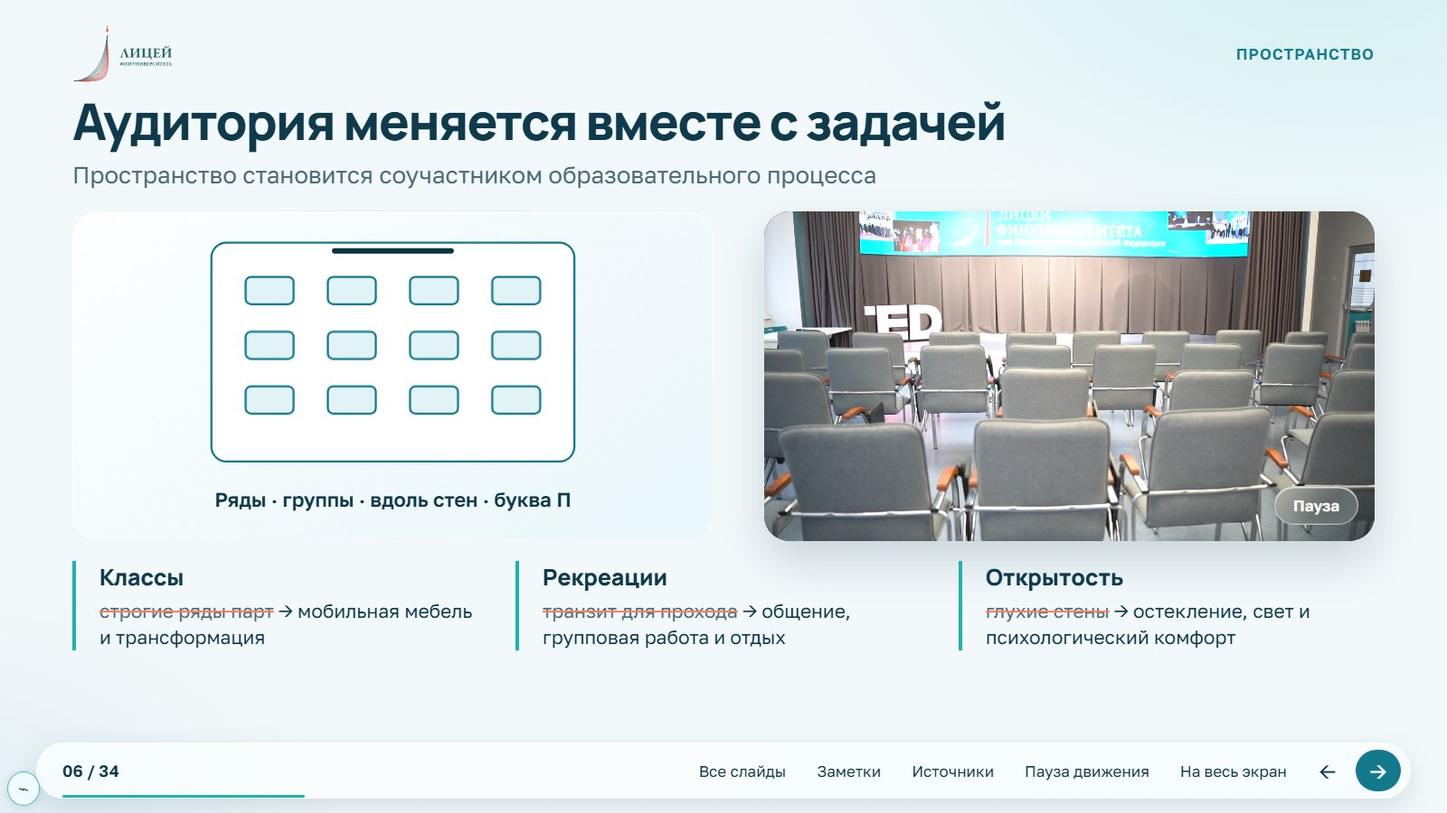
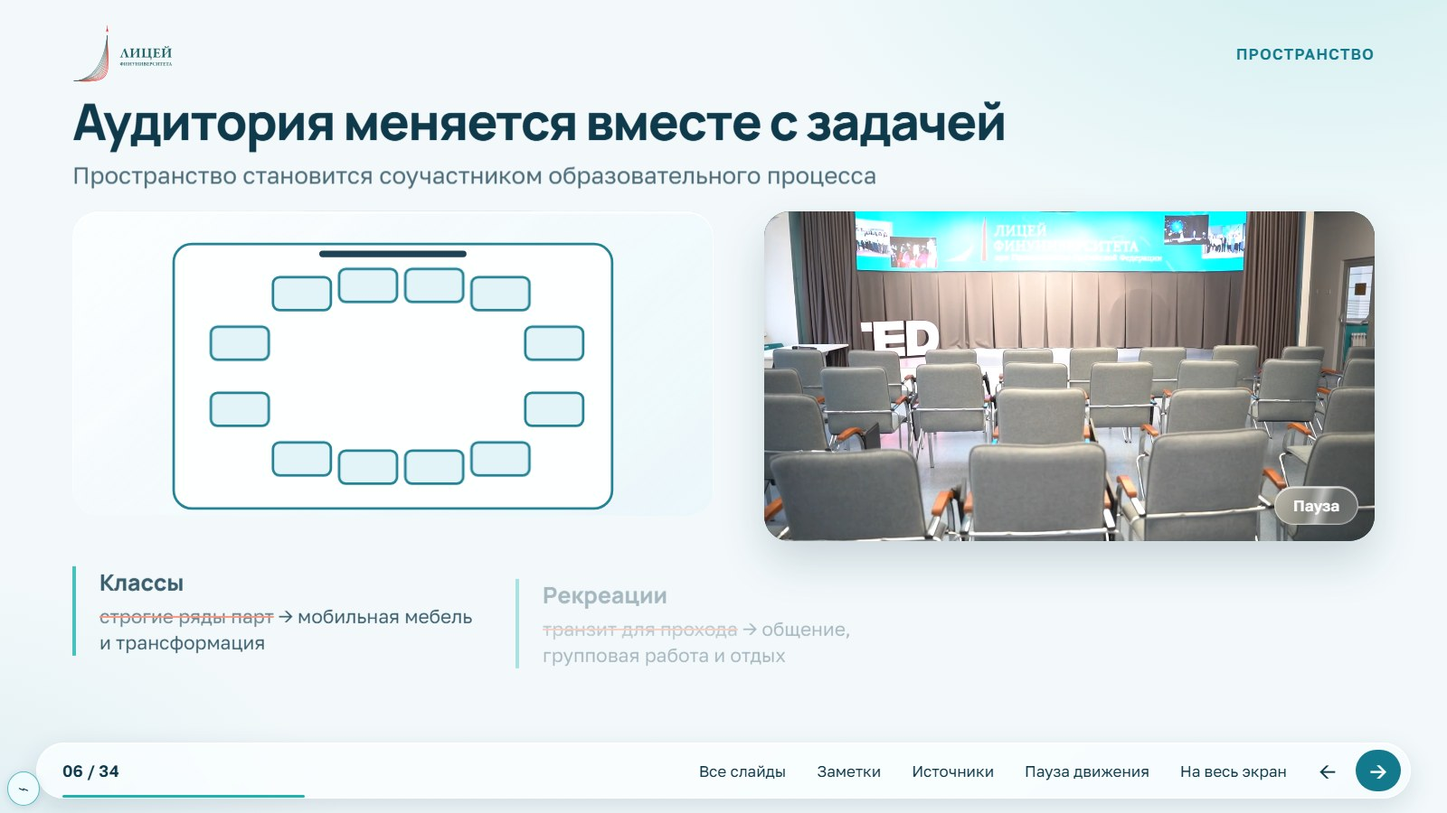
Add fifth classroom layout and remove animation captions

diff --git a/index.html b/index.html
@@ -479,7 +479,7 @@ body.iv-remote-connected .bottom{visibility:hidden;pointer-events:none}
 </style><style>
 /* Requested revisions, November 14 */
 #slide-6 .s6{height:365px;flex:none}#slide-6 .spaces-film{height:365px}#slide-6 .compare{display:grid;grid-template-columns:repeat(3,1fr);gap:30px}#slide-6 .compare dt{font-size:25px}#slide-6 .compare dd{font-size:21px}#slide-6{gap:22px}#slide-6 .room svg{height:290px}#slide-6 .mode{height:40px}#slide-6 .room-mode{position:static;opacity:1;font-size:22px}
-#slide-6.play .desk{animation:roomCycle 20s ease-in-out infinite}@keyframes roomCycle{0%,15%,100%{transform:translate(0,0)}25%,40%{transform:translate(var(--dx),var(--dy))}50%,65%{transform:translate(var(--wx),var(--wy))}75%,90%{transform:translate(var(--ux),var(--uy))}}
+#slide-6.play .desk{animation:roomCycle 25s ease-in-out infinite}@keyframes roomCycle{0%,12%,100%{transform:translate(0,0)}20%,32%{transform:translate(var(--dx),var(--dy))}40%,52%{transform:translate(var(--wx),var(--wy))}60%,72%{transform:translate(var(--ux),var(--uy))}80%,92%{transform:translate(var(--cx),var(--cy))}}
 #slide-7 .row-item{padding:12px 20px}#slide-7 .row-item b{font-size:28px}#slide-7 .row-item span{font-size:23px}
 .varwin-partner{display:flex;align-items:center;gap:28px;font-size:22px}.varwin-partner img{width:190px;height:65px;object-fit:contain}.varwin-partner p{margin-top:6px}#slide-16{gap:22px}#slide-16 .numbered{gap:22px}#slide-16 .varfin{min-height:205px}.varwin-partner b{font-size:24px}
 #slide-26.play .mon{animation:liftReturn 12s ease-in-out infinite}@keyframes liftReturn{0%,15%,100%{transform:translateY(0)}40%,65%{transform:translateY(-110px)}}#slide-26 .phases{font-size:22px;gap:10px}#slide-26 .up-arrow{animation-direction:alternate;animation-iteration-count:infinite}
@@ -521,7 +521,7 @@ body.iv-remote-connected .bottom{visibility:hidden;pointer-events:none}
 #slide-27 .admin-result p{font-size:20px;color:var(--muted);line-height:1.25}
 @media(max-width:899px){#slide-27 .ai-contours-v6{height:auto;grid-template-columns:1fr;font-size:18px}#slide-27 .contour-box{padding:18px 16px}#slide-27 .contour-title{display:flex;align-items:flex-start;flex-direction:column;gap:7px;font-size:22px}#slide-27 .contour-title>span{font-size:17px}#slide-27 .platform-row,#slide-27 .ai-processors{grid-template-columns:1fr}#slide-27 .platform-node b,#slide-27 .processor>b{font-size:22px}#slide-27 .processor+ .processor{border-left:0;padding-left:0;border-top:2px solid var(--line);padding-top:18px}#slide-27 .platform-node strong,#slide-27 .processor li,#slide-27 .admin-result p{font-size:18px}#slide-27 .ai-admin .contour-title br{display:none}}
 
-#noteText .speaker-point{margin:20px 0}#noteText h3{font-size:23px;color:var(--teal);margin:0 0 6px}#noteText p{font-size:22px;line-height:1.5}</style></head><body><main aria-label="Презентация Лицея Финансового университета" id="stage">
+#noteText .speaker-point{margin:20px 0}#noteText h3{font-size:23px;color:var(--teal);margin:0 0 6px}#noteText p{font-size:22px;line-height:1.5}</style><style>#slide-6 .room svg{height:340px}@media(max-width:899px){#slide-6 .room svg{height:auto;min-height:230px}}</style></head><body><main aria-label="Презентация Лицея Финансового университета" id="stage">
 <div class="brandbar"><img alt="Лицей Финансового университета" class="logo-light" src="assets/brand/v2/lyceum-color.svg"/><img alt="" class="logo-dark" src="assets/brand/v2/lyceum-white.svg"/><span class="chapter" id="chapter"></span></div>
 <section aria-label="Слайд 1: Новая архитектура профильного образования" class="slide dark hero" data-chapter="Лицей Финуниверситета" data-notes="Замысел
 Мы создаём среду, в которой школьник может проверить свои интересы на практике.
@@ -572,13 +572,13 @@ body.iv-remote-connected .bottom{visibility:hidden;pointer-events:none}
 Для общего объяснения, групповой работы и обсуждения нужна разная организация аудитории.
 
 Показать на схеме
-Парты переходят из рядов в группы, располагаются вдоль стен и буквой П.
+Парты переходят из рядов в группы, располагаются вдоль стен, буквой П и замкнутым кругом для общего обсуждения.
 
 За пределами класса
 Рекреации и открытые зоны дают место для общения, самостоятельной работы и отдыха." data-sources="1" id="slide-6"><header class="head"><h2 data-a="up" style="--d:0.00s">Аудитория меняется вместе с задачей</h2><p class="sub" data-a="up" style="--d:0.12s">Пространство становится соучастником образовательного процесса</p></header>
 <div class="split s6"><div class="room glass-light" data-a="reveal" style="--d:0.20s">
-<svg aria-label="Схема: ряды парт перестраиваются в группы" viewbox="0 0 570 340"><rect class="walls" height="320" rx="22" width="530" x="20" y="10"></rect><path class="board" d="M200 22H370"></path><rect class="desk" height="40" rx="8" style="--dx:-4px;--dy:11px;--d:1.20s;--wx:-25.0px;--wy:-10.0px;--ux:30.0px;--uy:-5.0px" width="70" x="70" y="60"></rect><rect class="desk" height="40" rx="8" style="--dx:-46px;--dy:11px;--d:1.24s;--wx:-145.0px;--wy:60.0px;--ux:10.0px;--uy:-5.0px" width="70" x="190" y="60"></rect><rect class="desk" height="40" rx="8" style="--dx:-244px;--dy:59px;--d:1.28s;--wx:-265.0px;--wy:130.0px;--ux:-10.0px;--uy:-5.0px" width="70" x="310" y="60"></rect><rect class="desk" height="40" rx="8" style="--dx:-286px;--dy:59px;--d:1.32s;--wx:-385.0px;--wy:200.0px;--ux:-30.0px;--uy:-5.0px" width="70" x="430" y="60"></rect><rect class="desk" height="40" rx="8" style="--dx:286px;--dy:-69px;--d:1.36s;--wx:385.0px;--wy:-90.0px;--ux:30.0px;--uy:-15.0px" width="70" x="70" y="140"></rect><rect class="desk" height="40" rx="8" style="--dx:244px;--dy:-69px;--d:1.40s;--wx:265.0px;--wy:-20.0px;--ux:-90.0px;--uy:55.0px" width="70" x="190" y="140"></rect><rect class="desk" height="40" rx="8" style="--dx:46px;--dy:-21px;--d:1.44s;--wx:145.0px;--wy:50.0px;--ux:-210.0px;--uy:125.0px" width="70" x="310" y="140"></rect><rect class="desk" height="40" rx="8" style="--dx:4px;--dy:-21px;--d:1.48s;--wx:25.0px;--wy:120.0px;--ux:-30.0px;--uy:-15.0px" width="70" x="430" y="140"></rect><rect class="desk" height="40" rx="8" style="--dx:141px;--dy:-14px;--d:1.52s;--wx:60px;--wy:50.0px;--ux:330.0px;--uy:-25.0px" width="70" x="70" y="220"></rect><rect class="desk" height="40" rx="8" style="--dx:99px;--dy:-14px;--d:1.56s;--wx:20px;--wy:50.0px;--ux:210.0px;--uy:45.0px" width="70" x="190" y="220"></rect><rect class="desk" height="40" rx="8" style="--dx:-99px;--dy:34px;--d:1.60s;--wx:-20px;--wy:50.0px;--ux:-110.0px;--uy:45.0px" width="70" x="310" y="220"></rect><rect class="desk" height="40" rx="8" style="--dx:-141px;--dy:34px;--d:1.64s;--wx:-60px;--wy:50.0px;--ux:-130.0px;--uy:45.0px" width="70" x="430" y="220"></rect></svg>
-<p class="mode"><span class="room-mode">Ряды · группы · вдоль стен · буква П</span></p></div>
+<svg aria-label="Анимация пяти расстановок парт: ряды, группы, вдоль стен, буква П и замкнутый круг для обсуждения" viewbox="0 0 570 340"><rect class="walls" height="320" rx="22" width="530" x="20" y="10"></rect><path class="board" d="M200 22H370"></path><rect class="desk" height="40" rx="8" style="--dx:-4px;--dy:11px;--d:1.20s;--wx:-25.0px;--wy:-10.0px;--ux:30.0px;--uy:-5.0px;--cx:70px;--cy:-10px" width="70" x="70" y="60"></rect><rect class="desk" height="40" rx="8" style="--dx:-46px;--dy:11px;--d:1.24s;--wx:-145.0px;--wy:60.0px;--ux:10.0px;--uy:-5.0px;--cx:30px;--cy:-20px" width="70" x="190" y="60"></rect><rect class="desk" height="40" rx="8" style="--dx:-244px;--dy:59px;--d:1.28s;--wx:-265.0px;--wy:130.0px;--ux:-10.0px;--uy:-5.0px;--cx:-10px;--cy:-20px" width="70" x="310" y="60"></rect><rect class="desk" height="40" rx="8" style="--dx:-286px;--dy:59px;--d:1.32s;--wx:-385.0px;--wy:200.0px;--ux:-30.0px;--uy:-5.0px;--cx:-50px;--cy:-10px" width="70" x="430" y="60"></rect><rect class="desk" height="40" rx="8" style="--dx:286px;--dy:-69px;--d:1.36s;--wx:385.0px;--wy:-90.0px;--ux:30.0px;--uy:-15.0px;--cx:375px;--cy:-30px" width="70" x="70" y="140"></rect><rect class="desk" height="40" rx="8" style="--dx:244px;--dy:-69px;--d:1.40s;--wx:265.0px;--wy:-20.0px;--ux:-90.0px;--uy:55.0px;--cx:255px;--cy:50px" width="70" x="190" y="140"></rect><rect class="desk" height="40" rx="8" style="--dx:46px;--dy:-21px;--d:1.44s;--wx:145.0px;--wy:50.0px;--ux:-210.0px;--uy:125.0px;--cx:70px;--cy:110px" width="70" x="310" y="140"></rect><rect class="desk" height="40" rx="8" style="--dx:4px;--dy:-21px;--d:1.48s;--wx:25.0px;--wy:120.0px;--ux:-30.0px;--uy:-15.0px;--cx:-130px;--cy:120px" width="70" x="430" y="140"></rect><rect class="desk" height="40" rx="8" style="--dx:141px;--dy:-14px;--d:1.52s;--wx:60px;--wy:50.0px;--ux:330.0px;--uy:-25.0px;--cx:150px;--cy:40px" width="70" x="70" y="220"></rect><rect class="desk" height="40" rx="8" style="--dx:99px;--dy:-14px;--d:1.56s;--wx:20px;--wy:50.0px;--ux:210.0px;--uy:45.0px;--cx:-50px;--cy:30px" width="70" x="190" y="220"></rect><rect class="desk" height="40" rx="8" style="--dx:-99px;--dy:34px;--d:1.60s;--wx:-20px;--wy:50.0px;--ux:-110.0px;--uy:45.0px;--cx:-245px;--cy:-30px" width="70" x="310" y="220"></rect><rect class="desk" height="40" rx="8" style="--dx:-141px;--dy:34px;--d:1.64s;--wx:-60px;--wy:50.0px;--ux:-130.0px;--uy:45.0px;--cx:-365px;--cy:-110px" width="70" x="430" y="220"></rect></svg>
+</div>
 <div class="spaces-side"><figure class="media spaces-film"><video aria-label="slide06-learning-spaces" data-src="assets/video/v6/slide06.mp4" loop="" muted="" playsinline="" poster="assets/photos/v6/slide06-poster.webp" preload="none"></video><button class="video-toggle glass" type="button">Пауза</button></figure></div></div><dl class="compare">
 <div data-a="up" style="--d:0.50s"><dt>Классы</dt><dd><s>строгие ряды парт</s> → мобильная мебель и трансформация</dd></div>
 <div data-a="up" style="--d:0.70s"><dt>Рекреации</dt><dd><s>транзит для прохода</s> → общение, групповая работа и отдых</dd></div>

diff --git a/standalone.html b/standalone.html
@@ -479,7 +479,7 @@ body.iv-remote-connected .bottom{visibility:hidden;pointer-events:none}
 </style><style>
 /* Requested revisions, November 14 */
 #slide-6 .s6{height:365px;flex:none}#slide-6 .spaces-film{height:365px}#slide-6 .compare{display:grid;grid-template-columns:repeat(3,1fr);gap:30px}#slide-6 .compare dt{font-size:25px}#slide-6 .compare dd{font-size:21px}#slide-6{gap:22px}#slide-6 .room svg{height:290px}#slide-6 .mode{height:40px}#slide-6 .room-mode{position:static;opacity:1;font-size:22px}
-#slide-6.play .desk{animation:roomCycle 20s ease-in-out infinite}@keyframes roomCycle{0%,15%,100%{transform:translate(0,0)}25%,40%{transform:translate(var(--dx),var(--dy))}50%,65%{transform:translate(var(--wx),var(--wy))}75%,90%{transform:translate(var(--ux),var(--uy))}}
+#slide-6.play .desk{animation:roomCycle 25s ease-in-out infinite}@keyframes roomCycle{0%,12%,100%{transform:translate(0,0)}20%,32%{transform:translate(var(--dx),var(--dy))}40%,52%{transform:translate(var(--wx),var(--wy))}60%,72%{transform:translate(var(--ux),var(--uy))}80%,92%{transform:translate(var(--cx),var(--cy))}}
 #slide-7 .row-item{padding:12px 20px}#slide-7 .row-item b{font-size:28px}#slide-7 .row-item span{font-size:23px}
 .varwin-partner{display:flex;align-items:center;gap:28px;font-size:22px}.varwin-partner img{width:190px;height:65px;object-fit:contain}.varwin-partner p{margin-top:6px}#slide-16{gap:22px}#slide-16 .numbered{gap:22px}#slide-16 .varfin{min-height:205px}.varwin-partner b{font-size:24px}
 #slide-26.play .mon{animation:liftReturn 12s ease-in-out infinite}@keyframes liftReturn{0%,15%,100%{transform:translateY(0)}40%,65%{transform:translateY(-110px)}}#slide-26 .phases{font-size:22px;gap:10px}#slide-26 .up-arrow{animation-direction:alternate;animation-iteration-count:infinite}
@@ -521,7 +521,7 @@ body.iv-remote-connected .bottom{visibility:hidden;pointer-events:none}
 #slide-27 .admin-result p{font-size:20px;color:var(--muted);line-height:1.25}
 @media(max-width:899px){#slide-27 .ai-contours-v6{height:auto;grid-template-columns:1fr;font-size:18px}#slide-27 .contour-box{padding:18px 16px}#slide-27 .contour-title{display:flex;align-items:flex-start;flex-direction:column;gap:7px;font-size:22px}#slide-27 .contour-title>span{font-size:17px}#slide-27 .platform-row,#slide-27 .ai-processors{grid-template-columns:1fr}#slide-27 .platform-node b,#slide-27 .processor>b{font-size:22px}#slide-27 .processor+ .processor{border-left:0;padding-left:0;border-top:2px solid var(--line);padding-top:18px}#slide-27 .platform-node strong,#slide-27 .processor li,#slide-27 .admin-result p{font-size:18px}#slide-27 .ai-admin .contour-title br{display:none}}
 
-#noteText .speaker-point{margin:20px 0}#noteText h3{font-size:23px;color:var(--teal);margin:0 0 6px}#noteText p{font-size:22px;line-height:1.5}</style></head><body><main aria-label="Презентация Лицея Финансового университета" id="stage">
+#noteText .speaker-point{margin:20px 0}#noteText h3{font-size:23px;color:var(--teal);margin:0 0 6px}#noteText p{font-size:22px;line-height:1.5}</style><style>#slide-6 .room svg{height:340px}@media(max-width:899px){#slide-6 .room svg{height:auto;min-height:230px}}</style></head><body><main aria-label="Презентация Лицея Финансового университета" id="stage">
 <div class="brandbar"><img alt="Лицей Финансового университета" class="logo-light" src="assets/brand/v2/lyceum-color.svg"/><img alt="" class="logo-dark" src="assets/brand/v2/lyceum-white.svg"/><span class="chapter" id="chapter"></span></div>
 <section aria-label="Слайд 1: Новая архитектура профильного образования" class="slide dark hero" data-chapter="Лицей Финуниверситета" data-notes="Замысел
 Мы создаём среду, в которой школьник может проверить свои интересы на практике.
@@ -572,13 +572,13 @@ body.iv-remote-connected .bottom{visibility:hidden;pointer-events:none}
 Для общего объяснения, групповой работы и обсуждения нужна разная организация аудитории.
 
 Показать на схеме
-Парты переходят из рядов в группы, располагаются вдоль стен и буквой П.
+Парты переходят из рядов в группы, располагаются вдоль стен, буквой П и замкнутым кругом для общего обсуждения.
 
 За пределами класса
 Рекреации и открытые зоны дают место для общения, самостоятельной работы и отдыха." data-sources="1" id="slide-6"><header class="head"><h2 data-a="up" style="--d:0.00s">Аудитория меняется вместе с задачей</h2><p class="sub" data-a="up" style="--d:0.12s">Пространство становится соучастником образовательного процесса</p></header>
 <div class="split s6"><div class="room glass-light" data-a="reveal" style="--d:0.20s">
-<svg aria-label="Схема: ряды парт перестраиваются в группы" viewbox="0 0 570 340"><rect class="walls" height="320" rx="22" width="530" x="20" y="10"></rect><path class="board" d="M200 22H370"></path><rect class="desk" height="40" rx="8" style="--dx:-4px;--dy:11px;--d:1.20s;--wx:-25.0px;--wy:-10.0px;--ux:30.0px;--uy:-5.0px" width="70" x="70" y="60"></rect><rect class="desk" height="40" rx="8" style="--dx:-46px;--dy:11px;--d:1.24s;--wx:-145.0px;--wy:60.0px;--ux:10.0px;--uy:-5.0px" width="70" x="190" y="60"></rect><rect class="desk" height="40" rx="8" style="--dx:-244px;--dy:59px;--d:1.28s;--wx:-265.0px;--wy:130.0px;--ux:-10.0px;--uy:-5.0px" width="70" x="310" y="60"></rect><rect class="desk" height="40" rx="8" style="--dx:-286px;--dy:59px;--d:1.32s;--wx:-385.0px;--wy:200.0px;--ux:-30.0px;--uy:-5.0px" width="70" x="430" y="60"></rect><rect class="desk" height="40" rx="8" style="--dx:286px;--dy:-69px;--d:1.36s;--wx:385.0px;--wy:-90.0px;--ux:30.0px;--uy:-15.0px" width="70" x="70" y="140"></rect><rect class="desk" height="40" rx="8" style="--dx:244px;--dy:-69px;--d:1.40s;--wx:265.0px;--wy:-20.0px;--ux:-90.0px;--uy:55.0px" width="70" x="190" y="140"></rect><rect class="desk" height="40" rx="8" style="--dx:46px;--dy:-21px;--d:1.44s;--wx:145.0px;--wy:50.0px;--ux:-210.0px;--uy:125.0px" width="70" x="310" y="140"></rect><rect class="desk" height="40" rx="8" style="--dx:4px;--dy:-21px;--d:1.48s;--wx:25.0px;--wy:120.0px;--ux:-30.0px;--uy:-15.0px" width="70" x="430" y="140"></rect><rect class="desk" height="40" rx="8" style="--dx:141px;--dy:-14px;--d:1.52s;--wx:60px;--wy:50.0px;--ux:330.0px;--uy:-25.0px" width="70" x="70" y="220"></rect><rect class="desk" height="40" rx="8" style="--dx:99px;--dy:-14px;--d:1.56s;--wx:20px;--wy:50.0px;--ux:210.0px;--uy:45.0px" width="70" x="190" y="220"></rect><rect class="desk" height="40" rx="8" style="--dx:-99px;--dy:34px;--d:1.60s;--wx:-20px;--wy:50.0px;--ux:-110.0px;--uy:45.0px" width="70" x="310" y="220"></rect><rect class="desk" height="40" rx="8" style="--dx:-141px;--dy:34px;--d:1.64s;--wx:-60px;--wy:50.0px;--ux:-130.0px;--uy:45.0px" width="70" x="430" y="220"></rect></svg>
-<p class="mode"><span class="room-mode">Ряды · группы · вдоль стен · буква П</span></p></div>
+<svg aria-label="Анимация пяти расстановок парт: ряды, группы, вдоль стен, буква П и замкнутый круг для обсуждения" viewbox="0 0 570 340"><rect class="walls" height="320" rx="22" width="530" x="20" y="10"></rect><path class="board" d="M200 22H370"></path><rect class="desk" height="40" rx="8" style="--dx:-4px;--dy:11px;--d:1.20s;--wx:-25.0px;--wy:-10.0px;--ux:30.0px;--uy:-5.0px;--cx:70px;--cy:-10px" width="70" x="70" y="60"></rect><rect class="desk" height="40" rx="8" style="--dx:-46px;--dy:11px;--d:1.24s;--wx:-145.0px;--wy:60.0px;--ux:10.0px;--uy:-5.0px;--cx:30px;--cy:-20px" width="70" x="190" y="60"></rect><rect class="desk" height="40" rx="8" style="--dx:-244px;--dy:59px;--d:1.28s;--wx:-265.0px;--wy:130.0px;--ux:-10.0px;--uy:-5.0px;--cx:-10px;--cy:-20px" width="70" x="310" y="60"></rect><rect class="desk" height="40" rx="8" style="--dx:-286px;--dy:59px;--d:1.32s;--wx:-385.0px;--wy:200.0px;--ux:-30.0px;--uy:-5.0px;--cx:-50px;--cy:-10px" width="70" x="430" y="60"></rect><rect class="desk" height="40" rx="8" style="--dx:286px;--dy:-69px;--d:1.36s;--wx:385.0px;--wy:-90.0px;--ux:30.0px;--uy:-15.0px;--cx:375px;--cy:-30px" width="70" x="70" y="140"></rect><rect class="desk" height="40" rx="8" style="--dx:244px;--dy:-69px;--d:1.40s;--wx:265.0px;--wy:-20.0px;--ux:-90.0px;--uy:55.0px;--cx:255px;--cy:50px" width="70" x="190" y="140"></rect><rect class="desk" height="40" rx="8" style="--dx:46px;--dy:-21px;--d:1.44s;--wx:145.0px;--wy:50.0px;--ux:-210.0px;--uy:125.0px;--cx:70px;--cy:110px" width="70" x="310" y="140"></rect><rect class="desk" height="40" rx="8" style="--dx:4px;--dy:-21px;--d:1.48s;--wx:25.0px;--wy:120.0px;--ux:-30.0px;--uy:-15.0px;--cx:-130px;--cy:120px" width="70" x="430" y="140"></rect><rect class="desk" height="40" rx="8" style="--dx:141px;--dy:-14px;--d:1.52s;--wx:60px;--wy:50.0px;--ux:330.0px;--uy:-25.0px;--cx:150px;--cy:40px" width="70" x="70" y="220"></rect><rect class="desk" height="40" rx="8" style="--dx:99px;--dy:-14px;--d:1.56s;--wx:20px;--wy:50.0px;--ux:210.0px;--uy:45.0px;--cx:-50px;--cy:30px" width="70" x="190" y="220"></rect><rect class="desk" height="40" rx="8" style="--dx:-99px;--dy:34px;--d:1.60s;--wx:-20px;--wy:50.0px;--ux:-110.0px;--uy:45.0px;--cx:-245px;--cy:-30px" width="70" x="310" y="220"></rect><rect class="desk" height="40" rx="8" style="--dx:-141px;--dy:34px;--d:1.64s;--wx:-60px;--wy:50.0px;--ux:-130.0px;--uy:45.0px;--cx:-365px;--cy:-110px" width="70" x="430" y="220"></rect></svg>
+</div>
 <div class="spaces-side"><figure class="media spaces-film"><video aria-label="slide06-learning-spaces" data-src="assets/video/v6/slide06.mp4" loop="" muted="" playsinline="" poster="assets/photos/v6/slide06-poster.webp" preload="none"></video><button class="video-toggle glass" type="button">Пауза</button></figure></div></div><dl class="compare">
 <div data-a="up" style="--d:0.50s"><dt>Классы</dt><dd><s>строгие ряды парт</s> → мобильная мебель и трансформация</dd></div>
 <div data-a="up" style="--d:0.70s"><dt>Рекреации</dt><dd><s>транзит для прохода</s> → общение, групповая работа и отдых</dd></div>

diff --git a/Новая_архитектура_профильного_образования.html b/Новая_архитектура_профильного_образования.html
@@ -479,7 +479,7 @@ body.iv-remote-connected .bottom{visibility:hidden;pointer-events:none}
 </style><style>
 /* Requested revisions, November 14 */
 #slide-6 .s6{height:365px;flex:none}#slide-6 .spaces-film{height:365px}#slide-6 .compare{display:grid;grid-template-columns:repeat(3,1fr);gap:30px}#slide-6 .compare dt{font-size:25px}#slide-6 .compare dd{font-size:21px}#slide-6{gap:22px}#slide-6 .room svg{height:290px}#slide-6 .mode{height:40px}#slide-6 .room-mode{position:static;opacity:1;font-size:22px}
-#slide-6.play .desk{animation:roomCycle 20s ease-in-out infinite}@keyframes roomCycle{0%,15%,100%{transform:translate(0,0)}25%,40%{transform:translate(var(--dx),var(--dy))}50%,65%{transform:translate(var(--wx),var(--wy))}75%,90%{transform:translate(var(--ux),var(--uy))}}
+#slide-6.play .desk{animation:roomCycle 25s ease-in-out infinite}@keyframes roomCycle{0%,12%,100%{transform:translate(0,0)}20%,32%{transform:translate(var(--dx),var(--dy))}40%,52%{transform:translate(var(--wx),var(--wy))}60%,72%{transform:translate(var(--ux),var(--uy))}80%,92%{transform:translate(var(--cx),var(--cy))}}
 #slide-7 .row-item{padding:12px 20px}#slide-7 .row-item b{font-size:28px}#slide-7 .row-item span{font-size:23px}
 .varwin-partner{display:flex;align-items:center;gap:28px;font-size:22px}.varwin-partner img{width:190px;height:65px;object-fit:contain}.varwin-partner p{margin-top:6px}#slide-16{gap:22px}#slide-16 .numbered{gap:22px}#slide-16 .varfin{min-height:205px}.varwin-partner b{font-size:24px}
 #slide-26.play .mon{animation:liftReturn 12s ease-in-out infinite}@keyframes liftReturn{0%,15%,100%{transform:translateY(0)}40%,65%{transform:translateY(-110px)}}#slide-26 .phases{font-size:22px;gap:10px}#slide-26 .up-arrow{animation-direction:alternate;animation-iteration-count:infinite}
@@ -521,7 +521,7 @@ body.iv-remote-connected .bottom{visibility:hidden;pointer-events:none}
 #slide-27 .admin-result p{font-size:20px;color:var(--muted);line-height:1.25}
 @media(max-width:899px){#slide-27 .ai-contours-v6{height:auto;grid-template-columns:1fr;font-size:18px}#slide-27 .contour-box{padding:18px 16px}#slide-27 .contour-title{display:flex;align-items:flex-start;flex-direction:column;gap:7px;font-size:22px}#slide-27 .contour-title>span{font-size:17px}#slide-27 .platform-row,#slide-27 .ai-processors{grid-template-columns:1fr}#slide-27 .platform-node b,#slide-27 .processor>b{font-size:22px}#slide-27 .processor+ .processor{border-left:0;padding-left:0;border-top:2px solid var(--line);padding-top:18px}#slide-27 .platform-node strong,#slide-27 .processor li,#slide-27 .admin-result p{font-size:18px}#slide-27 .ai-admin .contour-title br{display:none}}
 
-#noteText .speaker-point{margin:20px 0}#noteText h3{font-size:23px;color:var(--teal);margin:0 0 6px}#noteText p{font-size:22px;line-height:1.5}</style></head><body><main aria-label="Презентация Лицея Финансового университета" id="stage">
+#noteText .speaker-point{margin:20px 0}#noteText h3{font-size:23px;color:var(--teal);margin:0 0 6px}#noteText p{font-size:22px;line-height:1.5}</style><style>#slide-6 .room svg{height:340px}@media(max-width:899px){#slide-6 .room svg{height:auto;min-height:230px}}</style></head><body><main aria-label="Презентация Лицея Финансового университета" id="stage">
 <div class="brandbar"><img alt="Лицей Финансового университета" class="logo-light" src="assets/brand/v2/lyceum-color.svg"/><img alt="" class="logo-dark" src="assets/brand/v2/lyceum-white.svg"/><span class="chapter" id="chapter"></span></div>
 <section aria-label="Слайд 1: Новая архитектура профильного образования" class="slide dark hero" data-chapter="Лицей Финуниверситета" data-notes="Замысел
 Мы создаём среду, в которой школьник может проверить свои интересы на практике.
@@ -572,13 +572,13 @@ body.iv-remote-connected .bottom{visibility:hidden;pointer-events:none}
 Для общего объяснения, групповой работы и обсуждения нужна разная организация аудитории.
 
 Показать на схеме
-Парты переходят из рядов в группы, располагаются вдоль стен и буквой П.
+Парты переходят из рядов в группы, располагаются вдоль стен, буквой П и замкнутым кругом для общего обсуждения.
 
 За пределами класса
 Рекреации и открытые зоны дают место для общения, самостоятельной работы и отдыха." data-sources="1" id="slide-6"><header class="head"><h2 data-a="up" style="--d:0.00s">Аудитория меняется вместе с задачей</h2><p class="sub" data-a="up" style="--d:0.12s">Пространство становится соучастником образовательного процесса</p></header>
 <div class="split s6"><div class="room glass-light" data-a="reveal" style="--d:0.20s">
-<svg aria-label="Схема: ряды парт перестраиваются в группы" viewbox="0 0 570 340"><rect class="walls" height="320" rx="22" width="530" x="20" y="10"></rect><path class="board" d="M200 22H370"></path><rect class="desk" height="40" rx="8" style="--dx:-4px;--dy:11px;--d:1.20s;--wx:-25.0px;--wy:-10.0px;--ux:30.0px;--uy:-5.0px" width="70" x="70" y="60"></rect><rect class="desk" height="40" rx="8" style="--dx:-46px;--dy:11px;--d:1.24s;--wx:-145.0px;--wy:60.0px;--ux:10.0px;--uy:-5.0px" width="70" x="190" y="60"></rect><rect class="desk" height="40" rx="8" style="--dx:-244px;--dy:59px;--d:1.28s;--wx:-265.0px;--wy:130.0px;--ux:-10.0px;--uy:-5.0px" width="70" x="310" y="60"></rect><rect class="desk" height="40" rx="8" style="--dx:-286px;--dy:59px;--d:1.32s;--wx:-385.0px;--wy:200.0px;--ux:-30.0px;--uy:-5.0px" width="70" x="430" y="60"></rect><rect class="desk" height="40" rx="8" style="--dx:286px;--dy:-69px;--d:1.36s;--wx:385.0px;--wy:-90.0px;--ux:30.0px;--uy:-15.0px" width="70" x="70" y="140"></rect><rect class="desk" height="40" rx="8" style="--dx:244px;--dy:-69px;--d:1.40s;--wx:265.0px;--wy:-20.0px;--ux:-90.0px;--uy:55.0px" width="70" x="190" y="140"></rect><rect class="desk" height="40" rx="8" style="--dx:46px;--dy:-21px;--d:1.44s;--wx:145.0px;--wy:50.0px;--ux:-210.0px;--uy:125.0px" width="70" x="310" y="140"></rect><rect class="desk" height="40" rx="8" style="--dx:4px;--dy:-21px;--d:1.48s;--wx:25.0px;--wy:120.0px;--ux:-30.0px;--uy:-15.0px" width="70" x="430" y="140"></rect><rect class="desk" height="40" rx="8" style="--dx:141px;--dy:-14px;--d:1.52s;--wx:60px;--wy:50.0px;--ux:330.0px;--uy:-25.0px" width="70" x="70" y="220"></rect><rect class="desk" height="40" rx="8" style="--dx:99px;--dy:-14px;--d:1.56s;--wx:20px;--wy:50.0px;--ux:210.0px;--uy:45.0px" width="70" x="190" y="220"></rect><rect class="desk" height="40" rx="8" style="--dx:-99px;--dy:34px;--d:1.60s;--wx:-20px;--wy:50.0px;--ux:-110.0px;--uy:45.0px" width="70" x="310" y="220"></rect><rect class="desk" height="40" rx="8" style="--dx:-141px;--dy:34px;--d:1.64s;--wx:-60px;--wy:50.0px;--ux:-130.0px;--uy:45.0px" width="70" x="430" y="220"></rect></svg>
-<p class="mode"><span class="room-mode">Ряды · группы · вдоль стен · буква П</span></p></div>
+<svg aria-label="Анимация пяти расстановок парт: ряды, группы, вдоль стен, буква П и замкнутый круг для обсуждения" viewbox="0 0 570 340"><rect class="walls" height="320" rx="22" width="530" x="20" y="10"></rect><path class="board" d="M200 22H370"></path><rect class="desk" height="40" rx="8" style="--dx:-4px;--dy:11px;--d:1.20s;--wx:-25.0px;--wy:-10.0px;--ux:30.0px;--uy:-5.0px;--cx:70px;--cy:-10px" width="70" x="70" y="60"></rect><rect class="desk" height="40" rx="8" style="--dx:-46px;--dy:11px;--d:1.24s;--wx:-145.0px;--wy:60.0px;--ux:10.0px;--uy:-5.0px;--cx:30px;--cy:-20px" width="70" x="190" y="60"></rect><rect class="desk" height="40" rx="8" style="--dx:-244px;--dy:59px;--d:1.28s;--wx:-265.0px;--wy:130.0px;--ux:-10.0px;--uy:-5.0px;--cx:-10px;--cy:-20px" width="70" x="310" y="60"></rect><rect class="desk" height="40" rx="8" style="--dx:-286px;--dy:59px;--d:1.32s;--wx:-385.0px;--wy:200.0px;--ux:-30.0px;--uy:-5.0px;--cx:-50px;--cy:-10px" width="70" x="430" y="60"></rect><rect class="desk" height="40" rx="8" style="--dx:286px;--dy:-69px;--d:1.36s;--wx:385.0px;--wy:-90.0px;--ux:30.0px;--uy:-15.0px;--cx:375px;--cy:-30px" width="70" x="70" y="140"></rect><rect class="desk" height="40" rx="8" style="--dx:244px;--dy:-69px;--d:1.40s;--wx:265.0px;--wy:-20.0px;--ux:-90.0px;--uy:55.0px;--cx:255px;--cy:50px" width="70" x="190" y="140"></rect><rect class="desk" height="40" rx="8" style="--dx:46px;--dy:-21px;--d:1.44s;--wx:145.0px;--wy:50.0px;--ux:-210.0px;--uy:125.0px;--cx:70px;--cy:110px" width="70" x="310" y="140"></rect><rect class="desk" height="40" rx="8" style="--dx:4px;--dy:-21px;--d:1.48s;--wx:25.0px;--wy:120.0px;--ux:-30.0px;--uy:-15.0px;--cx:-130px;--cy:120px" width="70" x="430" y="140"></rect><rect class="desk" height="40" rx="8" style="--dx:141px;--dy:-14px;--d:1.52s;--wx:60px;--wy:50.0px;--ux:330.0px;--uy:-25.0px;--cx:150px;--cy:40px" width="70" x="70" y="220"></rect><rect class="desk" height="40" rx="8" style="--dx:99px;--dy:-14px;--d:1.56s;--wx:20px;--wy:50.0px;--ux:210.0px;--uy:45.0px;--cx:-50px;--cy:30px" width="70" x="190" y="220"></rect><rect class="desk" height="40" rx="8" style="--dx:-99px;--dy:34px;--d:1.60s;--wx:-20px;--wy:50.0px;--ux:-110.0px;--uy:45.0px;--cx:-245px;--cy:-30px" width="70" x="310" y="220"></rect><rect class="desk" height="40" rx="8" style="--dx:-141px;--dy:34px;--d:1.64s;--wx:-60px;--wy:50.0px;--ux:-130.0px;--uy:45.0px;--cx:-365px;--cy:-110px" width="70" x="430" y="220"></rect></svg>
+</div>
 <div class="spaces-side"><figure class="media spaces-film"><video aria-label="slide06-learning-spaces" data-src="assets/video/v6/slide06.mp4" loop="" muted="" playsinline="" poster="assets/photos/v6/slide06-poster.webp" preload="none"></video><button class="video-toggle glass" type="button">Пауза</button></figure></div></div><dl class="compare">
 <div data-a="up" style="--d:0.50s"><dt>Классы</dt><dd><s>строгие ряды парт</s> → мобильная мебель и трансформация</dd></div>
 <div data-a="up" style="--d:0.70s"><dt>Рекреации</dt><dd><s>транзит для прохода</s> → общение, групповая работа и отдых</dd></div>

diff --git a/speaker_notes.md b/speaker_notes.md
@@ -44,7 +44,7 @@
 Для общего объяснения, групповой работы и обсуждения нужна разная организация аудитории.
 
 **Показать на схеме**
-Парты переходят из рядов в группы, располагаются вдоль стен и буквой П.
+Парты переходят из рядов в группы, располагаются вдоль стен, буквой П и замкнутым кругом для общего обсуждения.
 
 **За пределами класса**
 Рекреации и открытые зоны дают место для общения, самостоятельной работы и отдыха.
